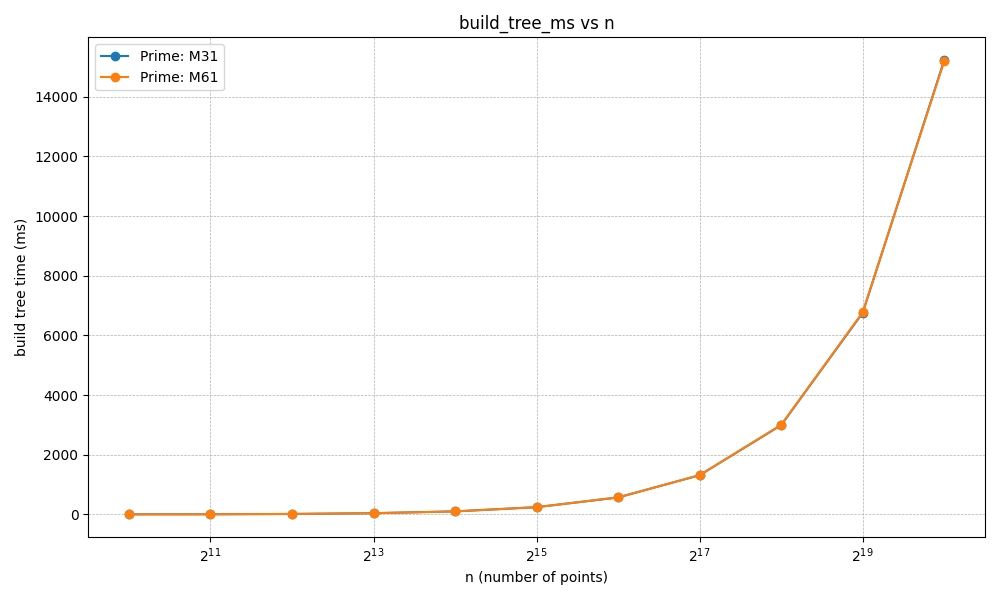
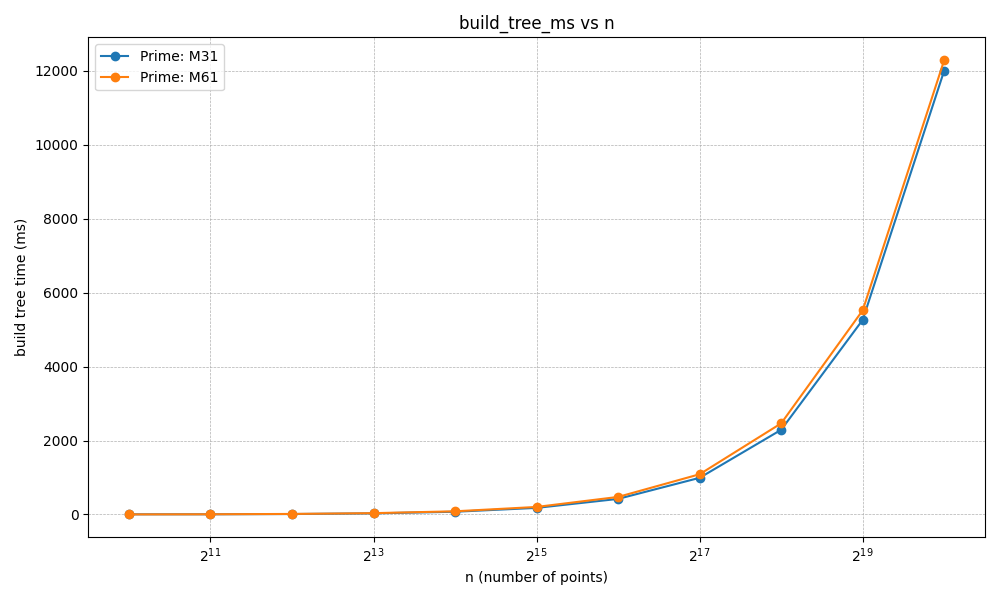
perf: revert optional Barrett simplification and drop LTO flags from bench target

diff --git a/include/poly_interp/fp_poly.hpp b/include/poly_interp/fp_poly.hpp
@@ -224,19 +224,19 @@ inline NTTCache& ensure_ntt_cache(std::size_t prime_idx, u32 n) {
 inline void ntt_cached(std::size_t prime_idx, std::vector<u32>& a, bool invert) {
     const u32 n = (u32)a.size();
     NTTCache& C = ensure_ntt_cache(prime_idx, n);
-    const u32 mod = C.mod;
-    const u32 mod2 = mod + mod;     // safe for your primes (< 2^32)
-    const u64 im = C.barrett_im;
+    const u32 mod  = C.mod;
+    const u32 mod2 = mod + mod;
+    const u64 im   = C.barrett_im;
     const u32 cache_n = C.cache_n;
 
 #ifndef NDEBUG
-    // In debug, make sure inputs are in [0, mod) (cheap fix if slightly out)
+    // Debug safeguard: keep inputs in [0, mod)
     for (u32 i = 0; i < n; ++i) {
         if (a[i] >= mod) a[i] %= mod;
     }
 #endif
 
-    // [BITREV CACHE]
+    // bit-reversal
     const auto& rev = bitrev_table(n);
     for (u32 i = 0; i < n; ++i) {
         const u32 j = rev[i];
@@ -245,25 +245,26 @@ inline void ntt_cached(std::size_t prime_idx, std::vector<u32>& a, bool invert) 
 
     u32* A = a.data();
 
+    // Twiddle table pointer: root[idx] = base^idx, iroot similarly.
+    const u32* RT = invert ? C.iroot.data() : C.root.data();
+
     for (u32 len = 2; len <= n; len <<= 1) {
         const u32 half = len >> 1;
-        const u32 step = cache_n / len;
-        const u32 wlen = invert ? C.iroot[step] : C.root[step];
+        const u32 step = cache_n / len;   // twiddle index stride in root table
 
         for (u32 blk = 0; blk < n; blk += len) {
             u32* p = A + blk;
             u32* q = p + half;
 
-            u32 w = 1;
             u32 j = 0;
+            u32 idx = 0;
 
-            // 4-way unroll
-            for (; j + 4 <= half; j += 4) {
-                const u32 w0 = w;
-                const u32 w1 = mul_mod_barrett(w0, wlen, mod, im);
-                const u32 w2 = mul_mod_barrett(w1, wlen, mod, im);
-                const u32 w3 = mul_mod_barrett(w2, wlen, mod, im);
-                w = mul_mod_barrett(w3, wlen, mod, im);
+            // 4-way unroll: load w from table, no w update mul
+            for (; j + 4 <= half; j += 4, idx += 4 * step) {
+                const u32 w0 = RT[idx];
+                const u32 w1 = RT[idx + step];
+                const u32 w2 = RT[idx + 2 * step];
+                const u32 w3 = RT[idx + 3 * step];
 
                 const u32 u0 = p[j + 0];
                 const u32 u1 = p[j + 1];
@@ -289,14 +290,13 @@ inline void ntt_cached(std::size_t prime_idx, std::vector<u32>& a, bool invert) 
             }
 
             // tail
-            for (; j < half; ++j) {
+            for (; j < half; ++j, idx += step) {
+                const u32 w = RT[idx];
                 const u32 u = p[j];
                 const u32 v = barrett_reduce_u64((u64)w * (u64)q[j], mod, im);
 
                 p[j] = add_mod_lazy2(u, v, mod2);
                 q[j] = sub_mod_lazy2(u, v, mod, mod2);
-
-                w = mul_mod_barrett(w, wlen, mod, im);
             }
         }
     }
@@ -305,10 +305,10 @@ inline void ntt_cached(std::size_t prime_idx, std::vector<u32>& a, bool invert) 
         const int logn = __builtin_ctz((unsigned)n);
         const u32 inv_n = C.inv_n_by_log[logn];
 
-        // Normalize from [0, 2*mod) to [0, mod), then scale by inv_n -> [0, mod)
+        // Normalize [0,2mod) -> [0,mod), then scale to [0,mod)
         for (u32 i = 0; i < n; ++i) {
             u32 x = A[i];
-            if (x >= mod) x -= mod; // now < mod
+            if (x >= mod) x -= mod;
             A[i] = barrett_reduce_u64((u64)x * (u64)inv_n, mod, im);
         }
     }
